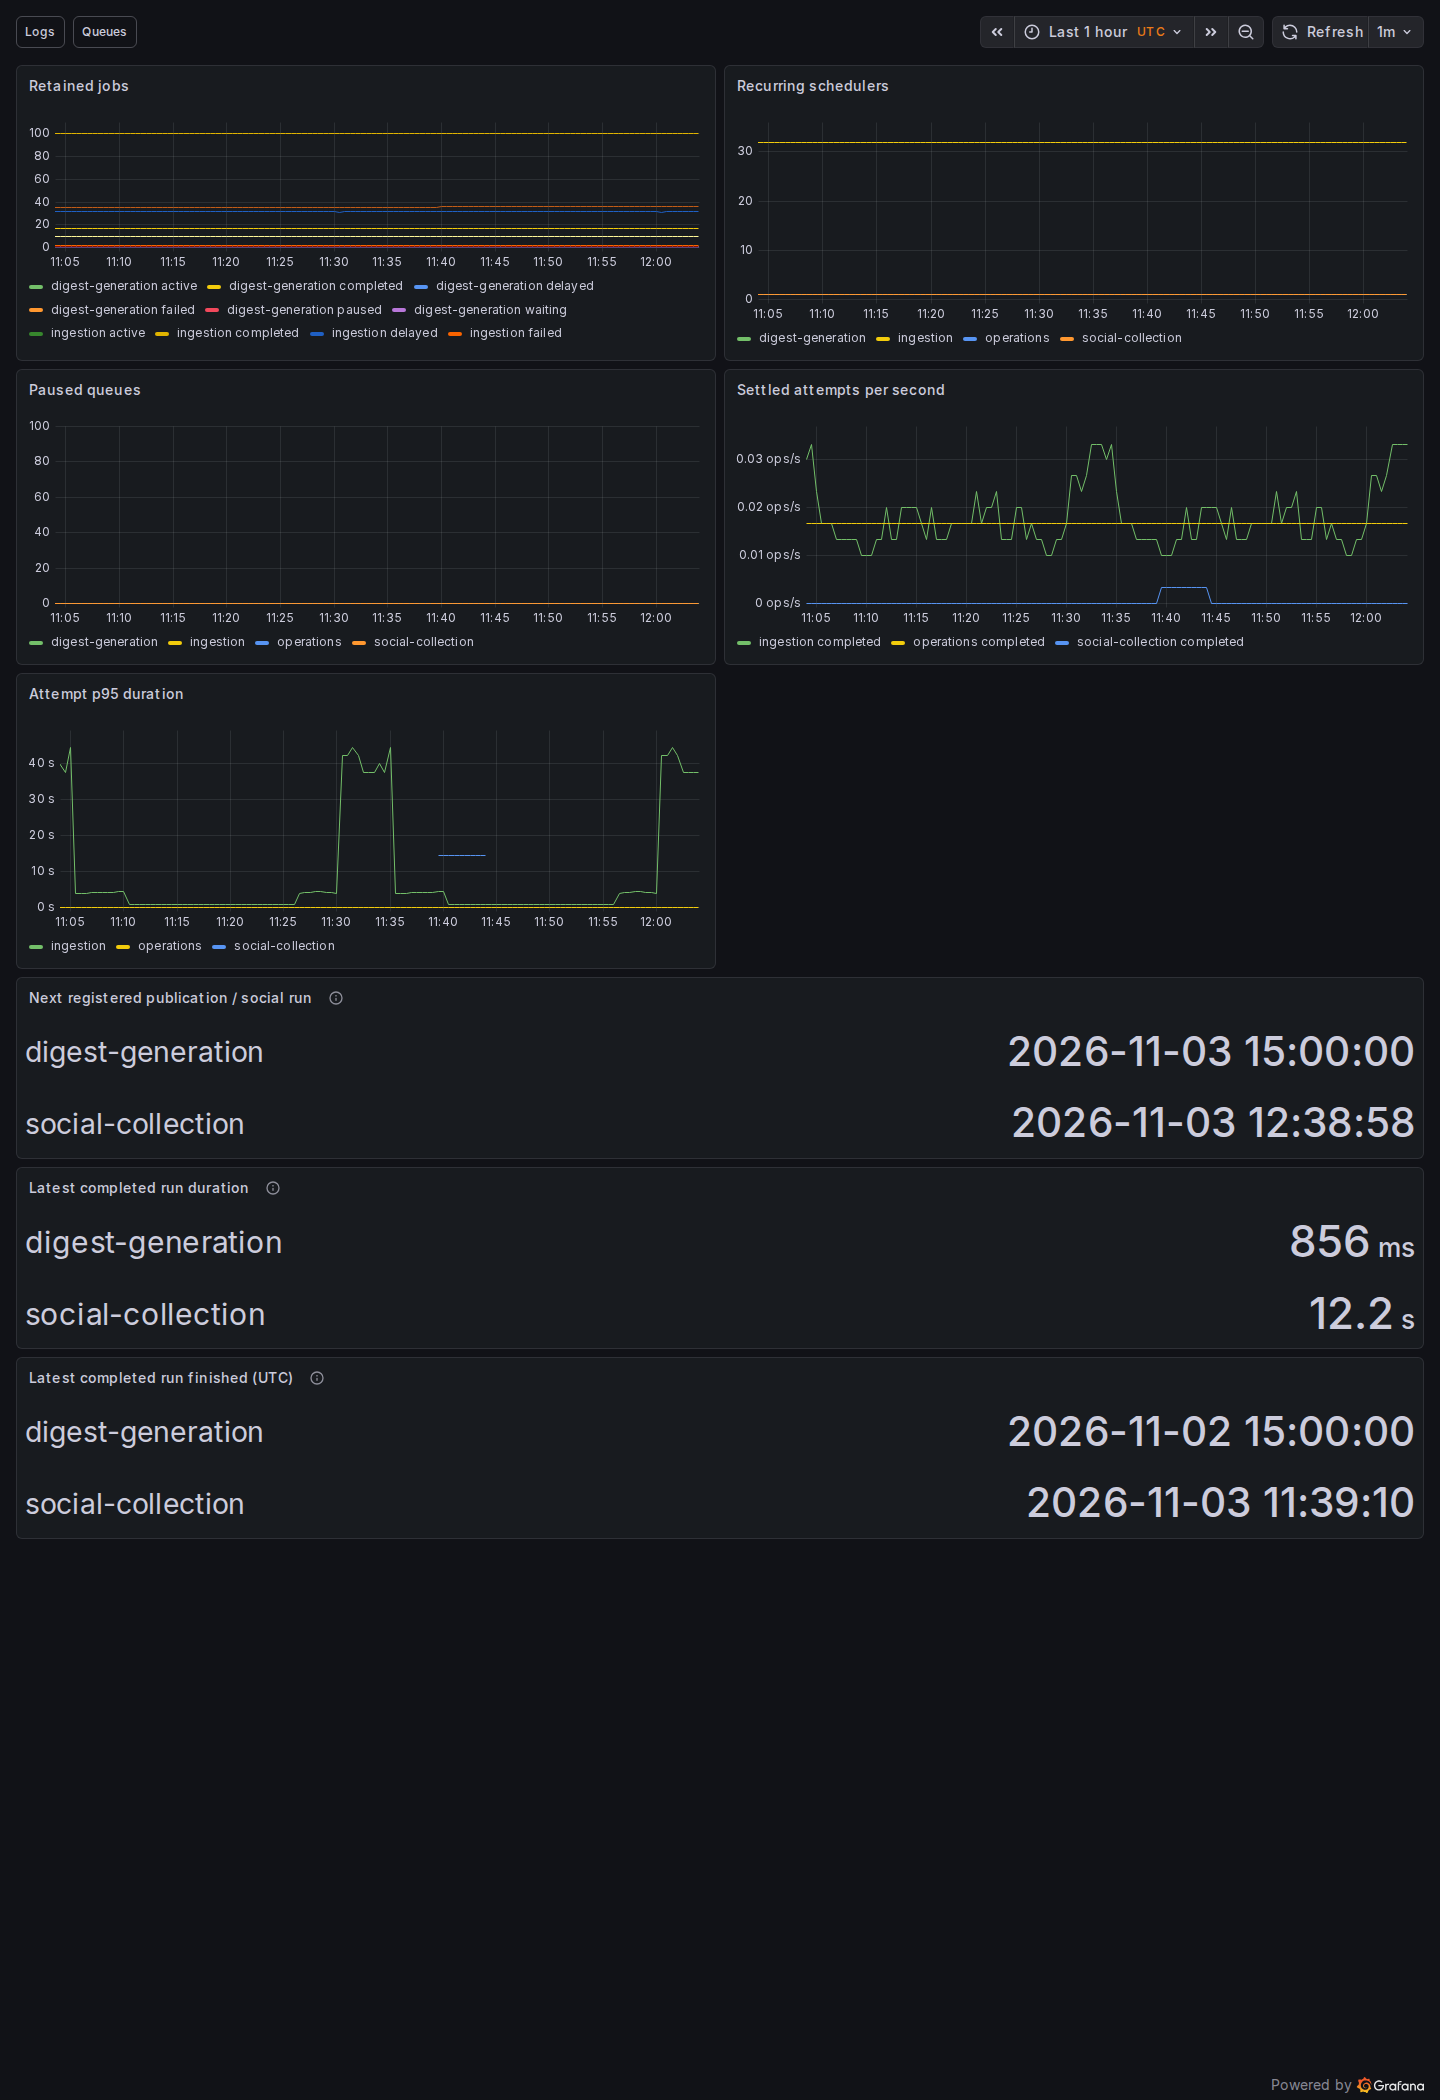
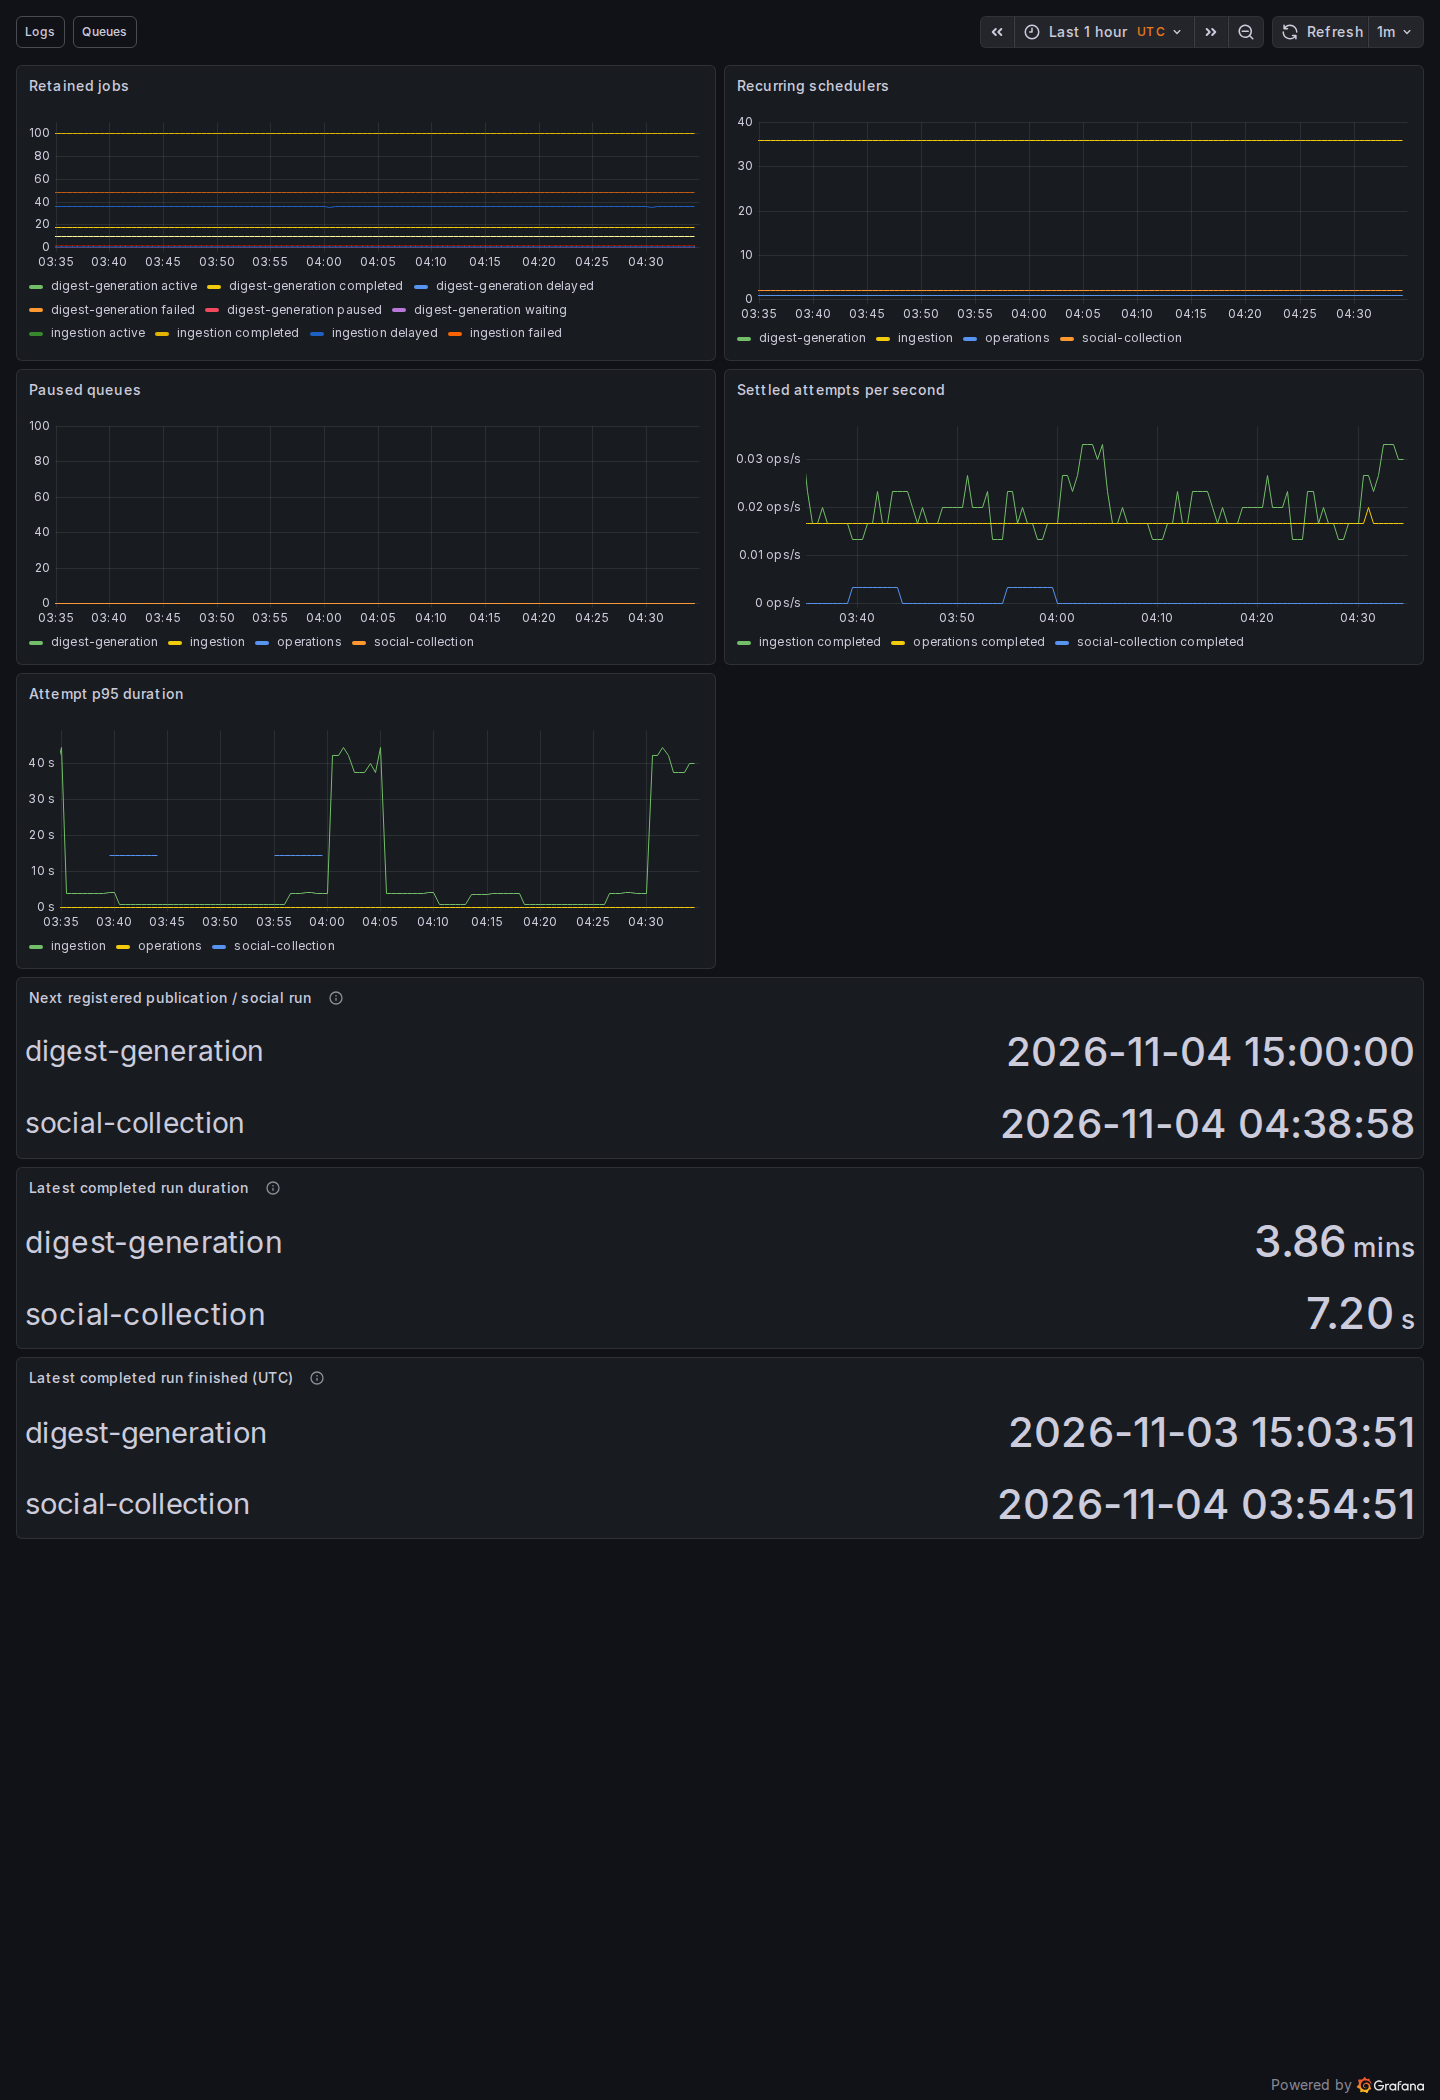
Report the earliest recurring social collection run

diff --git a/apps/api/test/operations.test.ts b/apps/api/test/operations.test.ts
@@ -71,6 +71,47 @@ void test('operations preserves healthy telemetry when one queue is unavailable 
   }
 });
 
+void test('operations reports the earliest social run across multiple registered schedules', async () => {
+  assert.equal(process.env.NEWS_DIGEST_ISOLATED_TEST, '1');
+  const status = new OperationsStatus();
+  const queue = status.queues.find(
+    (entry) => entry.name === 'social-collection',
+  )!;
+  const ids = [randomUUID(), randomUUID()];
+  try {
+    await queue.pause();
+    const first = Date.now() + 3_600_000;
+    for (const [index, id] of ids.entries()) {
+      await queue.upsertJobScheduler(
+        id,
+        { pattern: '0 * * * *', startDate: first + index * 86_400_000 },
+        { name: 'collect', data: {} },
+      );
+    }
+    const schedules = await queue.getJobSchedulers(0, -1, true);
+    assert.equal(schedules.length, 2);
+    assert.ok(schedules[0].next! < schedules[1].next!);
+    const result = operationsStatusSchema.parse(
+      JSON.parse(JSON.stringify(await status.read())),
+    );
+    assert.equal(
+      result.queues.find((entry) => entry.name === queue.name)!.nextRun,
+      new Date(schedules[0].next!).toISOString(),
+    );
+    await queue.removeJobScheduler(schedules[0].key);
+    const remaining = await status.read();
+    assert.equal(
+      remaining.queues.find((entry) => entry.name === queue.name)!.nextRun,
+      new Date(schedules[1].next!).toISOString(),
+    );
+  } finally {
+    for (const id of ids) await queue.removeJobScheduler(id);
+    await queue.resume();
+    await queue.obliterate({ force: true });
+    await status.onModuleDestroy();
+  }
+});
+
 void test('operations reports persisted sources and bounded queue telemetry without job payloads', async () => {
   const status = new OperationsStatus();
   try {

diff --git a/scripts/lib/check-grafana.ts b/scripts/lib/check-grafana.ts
@@ -408,9 +408,11 @@ export async function checkGrafana() {
         height:
           dashboard.uid === 'nd-product'
             ? 4700
-            : ['nd-runtime', 'nd-redis', 'nd-jobs'].includes(dashboard.uid)
-              ? 2100
-              : 1100,
+            : ['nd-database', 'nd-agent'].includes(dashboard.uid)
+              ? 3100
+              : ['nd-runtime', 'nd-redis', 'nd-jobs'].includes(dashboard.uid)
+                ? 2100
+                : 1100,
       });
       const errors: string[] = [];
       page.on('response', (response) => {
@@ -422,12 +424,6 @@ export async function checkGrafana() {
       });
       const listener = (error: Error) => errors.push(error.message);
       page.on('pageerror', listener);
-      await page.setViewportSize({
-        width: 1440,
-        height: ['nd-database', 'nd-agent'].includes(dashboard.uid)
-          ? 3100
-          : 1100,
-      });
       await page.goto(`${base}/d/${dashboard.uid}?kiosk`, {
         waitUntil: 'networkidle',
         timeout: 60_000,

diff --git a/apps/api/src/modules/operations/adapters/operations.status.ts b/apps/api/src/modules/operations/adapters/operations.status.ts
@@ -62,7 +62,7 @@ export class OperationsStatus
                   )
                 : Promise.resolve([]),
               ['digest-generation', 'social-collection'].includes(queue.name)
-                ? queue.getJobSchedulers(0, 9)
+                ? queue.getJobSchedulers(0, 0, true)
                 : Promise.resolve([]),
               queue.isPaused(),
             ],

diff --git a/PROGRESS.md b/PROGRESS.md
@@ -1,12 +1,3 @@
-## 2026-11-04: iteration 541 — respect ranked pools in offline triage replay
-
-- Started clean on main; no leftover work. Zero alerts, healthy healthz/root, 36 nonempty successful sources without current errors and no failed digest jobs. Historical social failure is the already investigated Nov 3 23:54 event; Nov 4 review remains pending.
-- Fixed bounded offline replay to consume snapshot ranking instead of candidate catalogue order, avoiding incorrect remainder/waste estimates. Changing-rank regression proves catalogue-order independence; all eight targeted offline tests pass.
-- Production incremental triage remains off; no paid calls or actual waste/latency claim. No running code/config changed, so no restart under STEERING 22.
-- Updated TASKS/RANKING; archived iteration 522 to keep PROGRESS small. No source/schema/UI or handbook flow changes.
-- Verification: pnpm format, pnpm lint:fix, pnpm check (349 unit/186 isolated integration), pnpm build, targeted replay (8/8) and git diff --check passed; root HTTP 200 and healthy healthz. Zero dangling Docker volumes.
-- Next: Nov 4 scheduled review first, then gated worker connection and actual scored-work waste evidence.
-
 ## 2026-11-04: iteration 542 — report observed triage work per topic
 
 - Started clean on main; no leftover work. Zero alerts, healthy healthz, 36 nonempty successful sources without current errors and zero failed digest jobs. Nov 4 scheduled review remains pending.
@@ -166,3 +157,13 @@
 - Verification: pnpm format, pnpm lint:fix, pnpm check (363 unit/192 isolated integration), pnpm build, handbook 09-observability check and focused check-observability --verify-grafana --grafana-database-only passed; zero dangling Docker volumes.
 - Full Grafana verification twice failed on retained social-collection next-run metric versus current Status; recorded an open task. Generated unchanged-layout screenshots discarded. Restart 502s temporarily triggered the rolling API error alert; final snapshot has zero alerts.
 - No paid calls or edition changes. Next: investigate schedule metric freshness, monitor memory, then prioritize Nov 4 15:00 scheduled edition evidence.
+
+## 2026-11-04: iteration 560 — report the earliest recurring social run
+
+- Started clean on main; no leftover work. Healthz passed, 36 sources without current errors; pending API error alert cleared without intervention.
+- Traced repeated Grafana/Status mismatch to Status reading BullMQ schedulers descending: it reported the later of two social schedules. Read only the earliest schedule, matching metrics; no schedule or edition behavior changed.
+- Added isolated two-schedule regression including removal of the earliest schedule. Initial test cleanup used optional id instead of scheduler key; corrected and reran successfully.
+- Removed duplicate browser viewport shrink hiding lower Jobs/Product panels; focused Grafana check passed all 8 populated panels, with refreshed desktop/mobile screenshots.
+- Verification: pnpm format, pnpm lint:fix, pnpm check (363 unit/193 isolated integration), pnpm build and git diff --check passed; zero dangling Docker volumes. API restarted; healthz and live Status passed.
+- Full check-observability --verify-grafana passed desktop checks then timed out on Agent mobile Supervisor active; follow-up recorded. Final alerts clear; archived iteration 541 to keep PROGRESS small.
+- No paid calls, production feature activation or source changes. Next: prioritize Nov 4 15:00 edition evidence; grouping/incremental triage stay gated.

diff --git a/TASKS.md b/TASKS.md
@@ -61,7 +61,9 @@ Fix failures and stalled sources first. [Completed markers](docs/progress-archiv
 - [ ] STEERING 2a (lower priority): finish repository/HTTP characterization before ORM. Isolated DB/Redis, migrations, HTTP/worker and synthetic-AI goldens implemented (183–270); gaps: [database verification](docs/DATABASE-VERIFICATION.md). Bluesky refresh rollback/retry and exact observation boundaries and 5,000-snapshot cap and concurrent cross-topic refresh and configuration disable/delete races characterized (554–558). Finish 2a before ORM; recorded-response golden open.
 - [ ] STEERING 2b (only after 2a is green): record Drizzle decision/schema parity, back up live DB, gradually replace raw SQL behind ports and enforce boundaries.
 
-- [ ] Fix Grafana jobs verification: social-collection next-run metric differs from current Status (559, repeated); inspect scheduler metric freshness before claiming full dashboard acceptance.
+- [ ] Full Grafana verification (560): desktop checks pass after viewport fix; Agent mobile times out waiting for Supervisor active. Inspect navigation/scroll state; focused Jobs check passes.
+
+- [x] Fix social next-run mismatch (560): Status now reads the earliest recurring schedule, matching metrics; isolated two-schedule regression added.
 
 - [ ] STEERING 24/25 (background while product blocked): [observability plan](docs/observability-plan.md). O1–O10 verified through metadata-only browser errors (442). O8 unavailable counters stay uninferred. Iteration 514 adds the duration-only slow-call view linked from Database. O11 tracing requires overhead evidence/decision note; stop CLI/dashboard refinements. Product evidence takes priority.
   - Memory warning recovery (454): metrics-store resets all expendable caches on startup; oversized saved storage caches survived the previous query-only reset. Iteration 504 lowers the Go target to 48 MiB after renewed memory warning; hard ceiling/alert threshold unchanged. Monitor cache refill. Iteration 559 adds Grafana 208 MiB soft reclaim after filesystem cache pushed it near its unchanged 256 MiB ceiling. Iteration 512 adds a 128 MiB soft reclaim threshold to the log store after filesystem-cache pressure; hard 160 MiB ceiling unchanged.

diff --git a/docs/progress-archive/2026-11-04-iteration-541.md b/docs/progress-archive/2026-11-04-iteration-541.md
@@ -1,0 +1,8 @@
+## 2026-11-04: iteration 541 — respect ranked pools in offline triage replay
+
+- Started clean on main; no leftover work. Zero alerts, healthy healthz/root, 36 nonempty successful sources without current errors and no failed digest jobs. Historical social failure is the already investigated Nov 3 23:54 event; Nov 4 review remains pending.
+- Fixed bounded offline replay to consume snapshot ranking instead of candidate catalogue order, avoiding incorrect remainder/waste estimates. Changing-rank regression proves catalogue-order independence; all eight targeted offline tests pass.
+- Production incremental triage remains off; no paid calls or actual waste/latency claim. No running code/config changed, so no restart under STEERING 22.
+- Updated TASKS/RANKING; archived iteration 522 to keep PROGRESS small. No source/schema/UI or handbook flow changes.
+- Verification: pnpm format, pnpm lint:fix, pnpm check (349 unit/186 isolated integration), pnpm build, targeted replay (8/8) and git diff --check passed; root HTTP 200 and healthy healthz. Zero dangling Docker volumes.
+- Next: Nov 4 scheduled review first, then gated worker connection and actual scored-work waste evidence.
